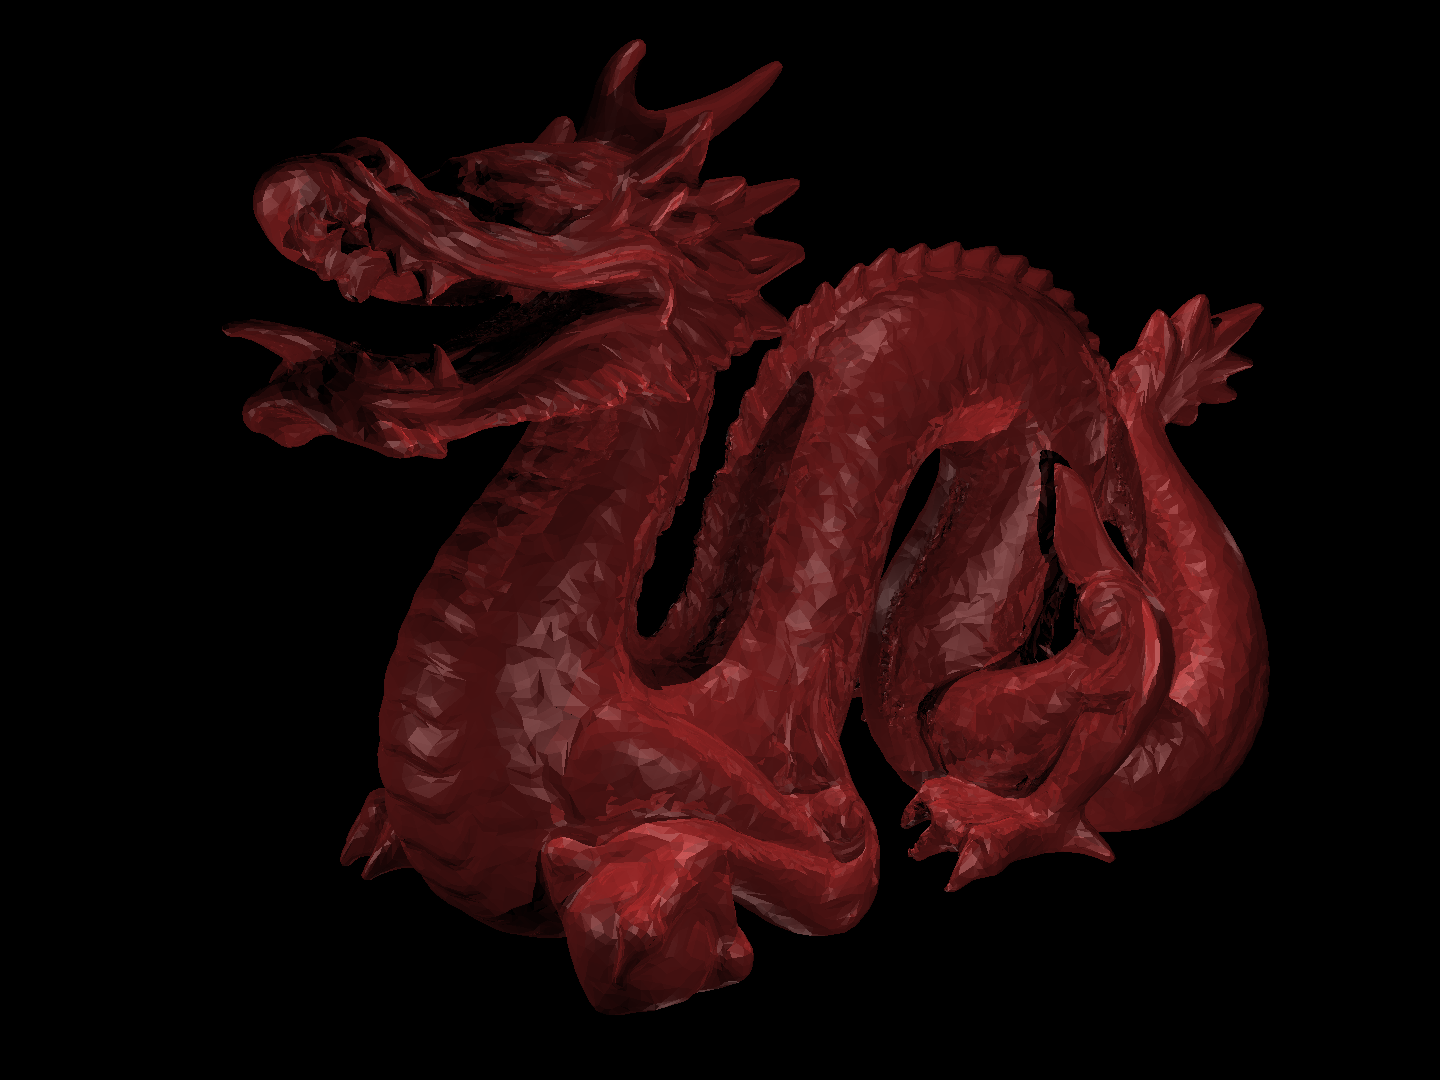
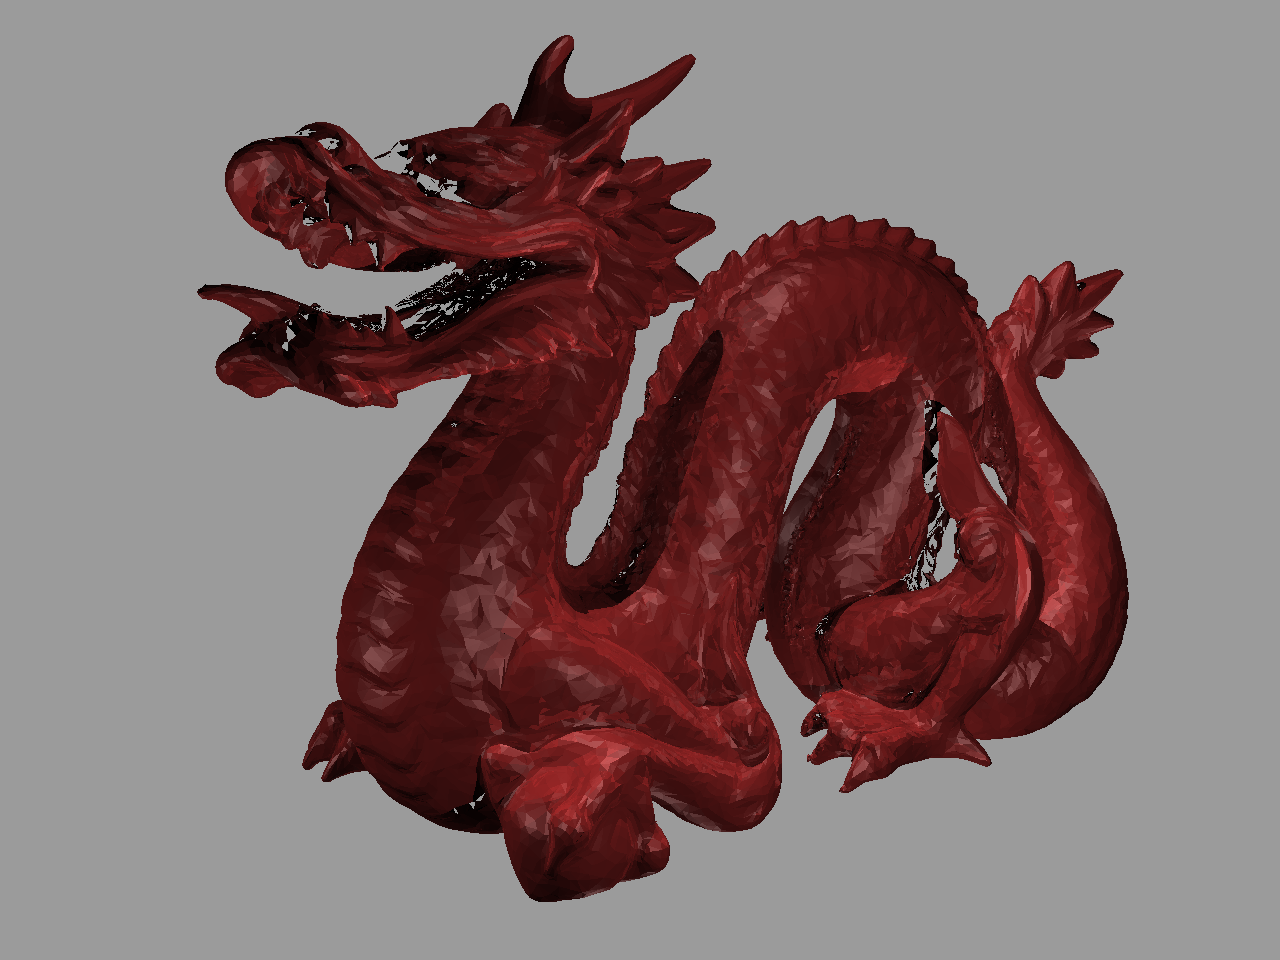
change image

diff --git a/OptiXRenderer/Renderer.cpp b/OptiXRenderer/Renderer.cpp
@@ -232,6 +232,9 @@ std::vector<unsigned char> Renderer::getResult()
             imageData[index + 1] = cast(pixel.y);
             imageData[index + 2] = cast(pixel.z);
             imageData[index + 3] = 255; // alpha channel
+
+            if(pixel.x + pixel.y + pixel.z <= 0.0001f)
+                imageData[index + 3] = 100;
         }
     }
 
